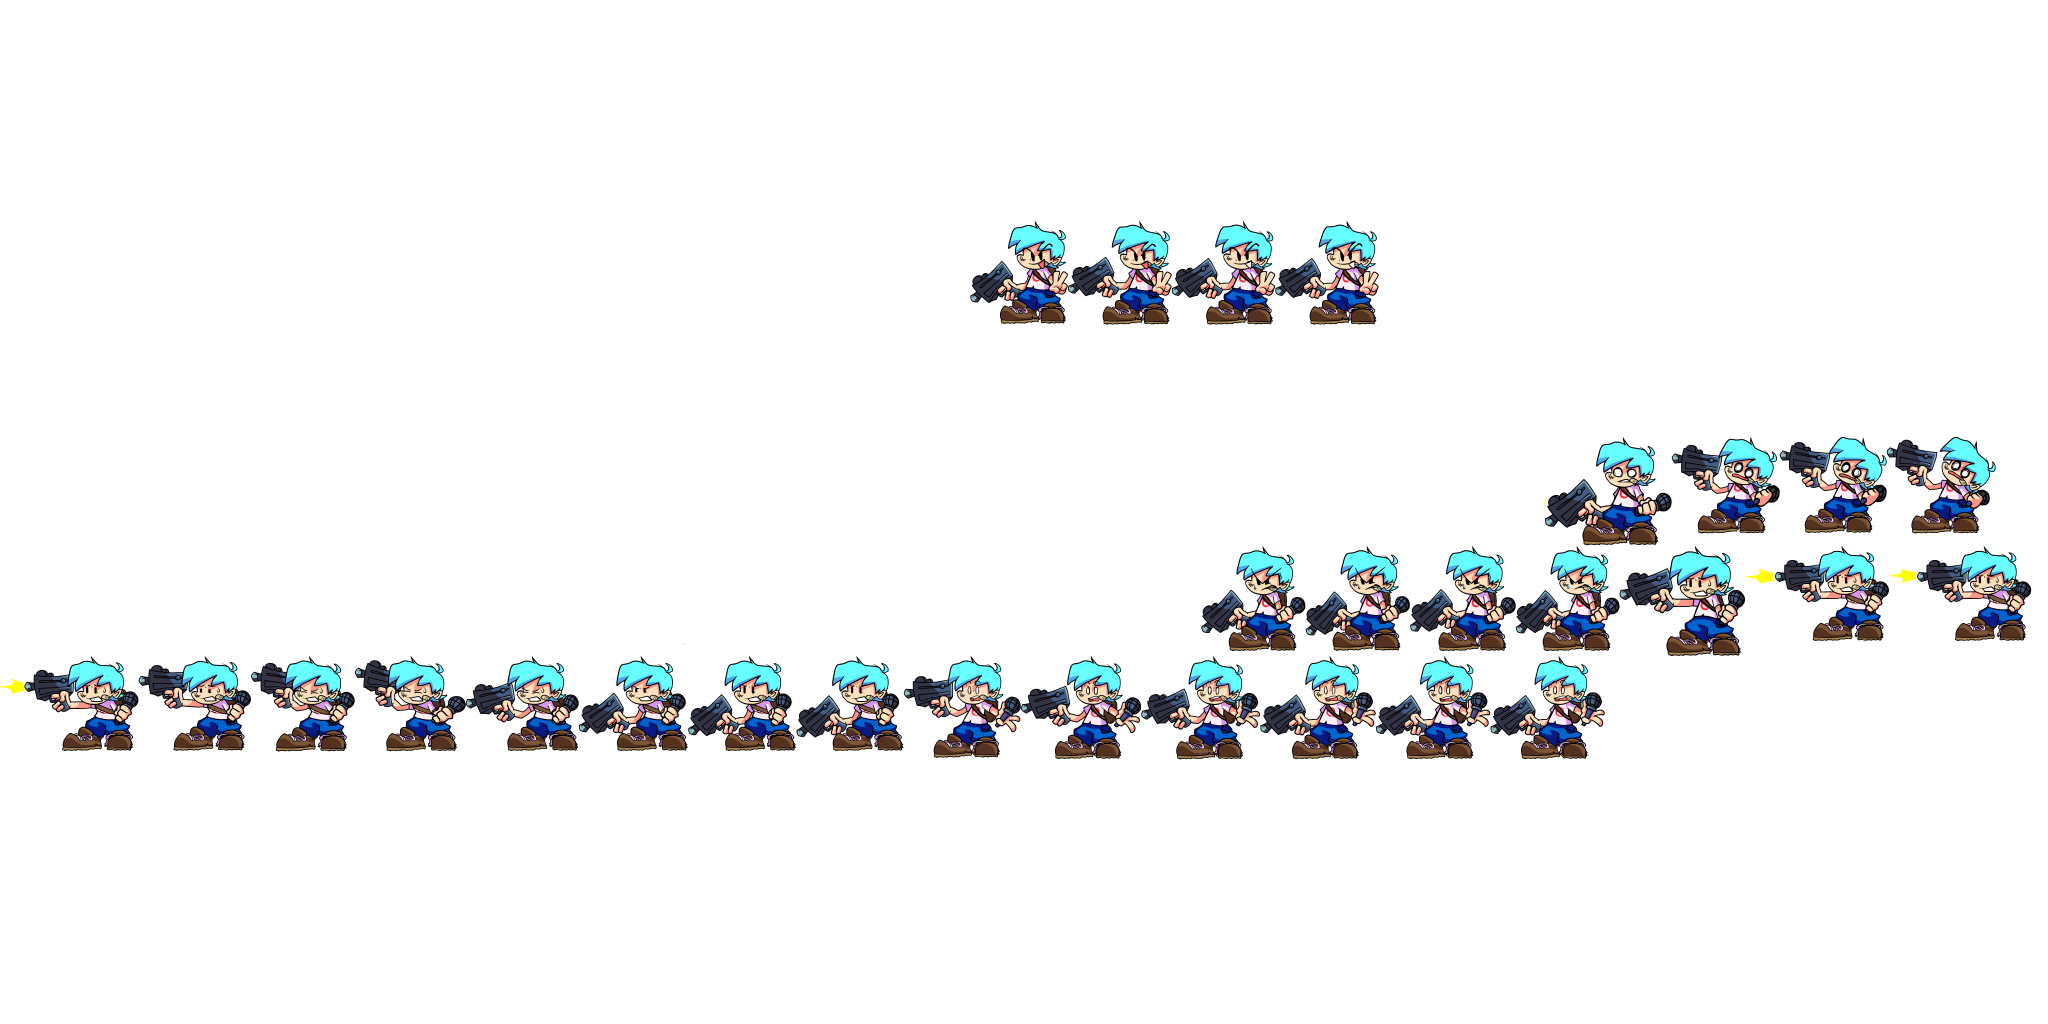
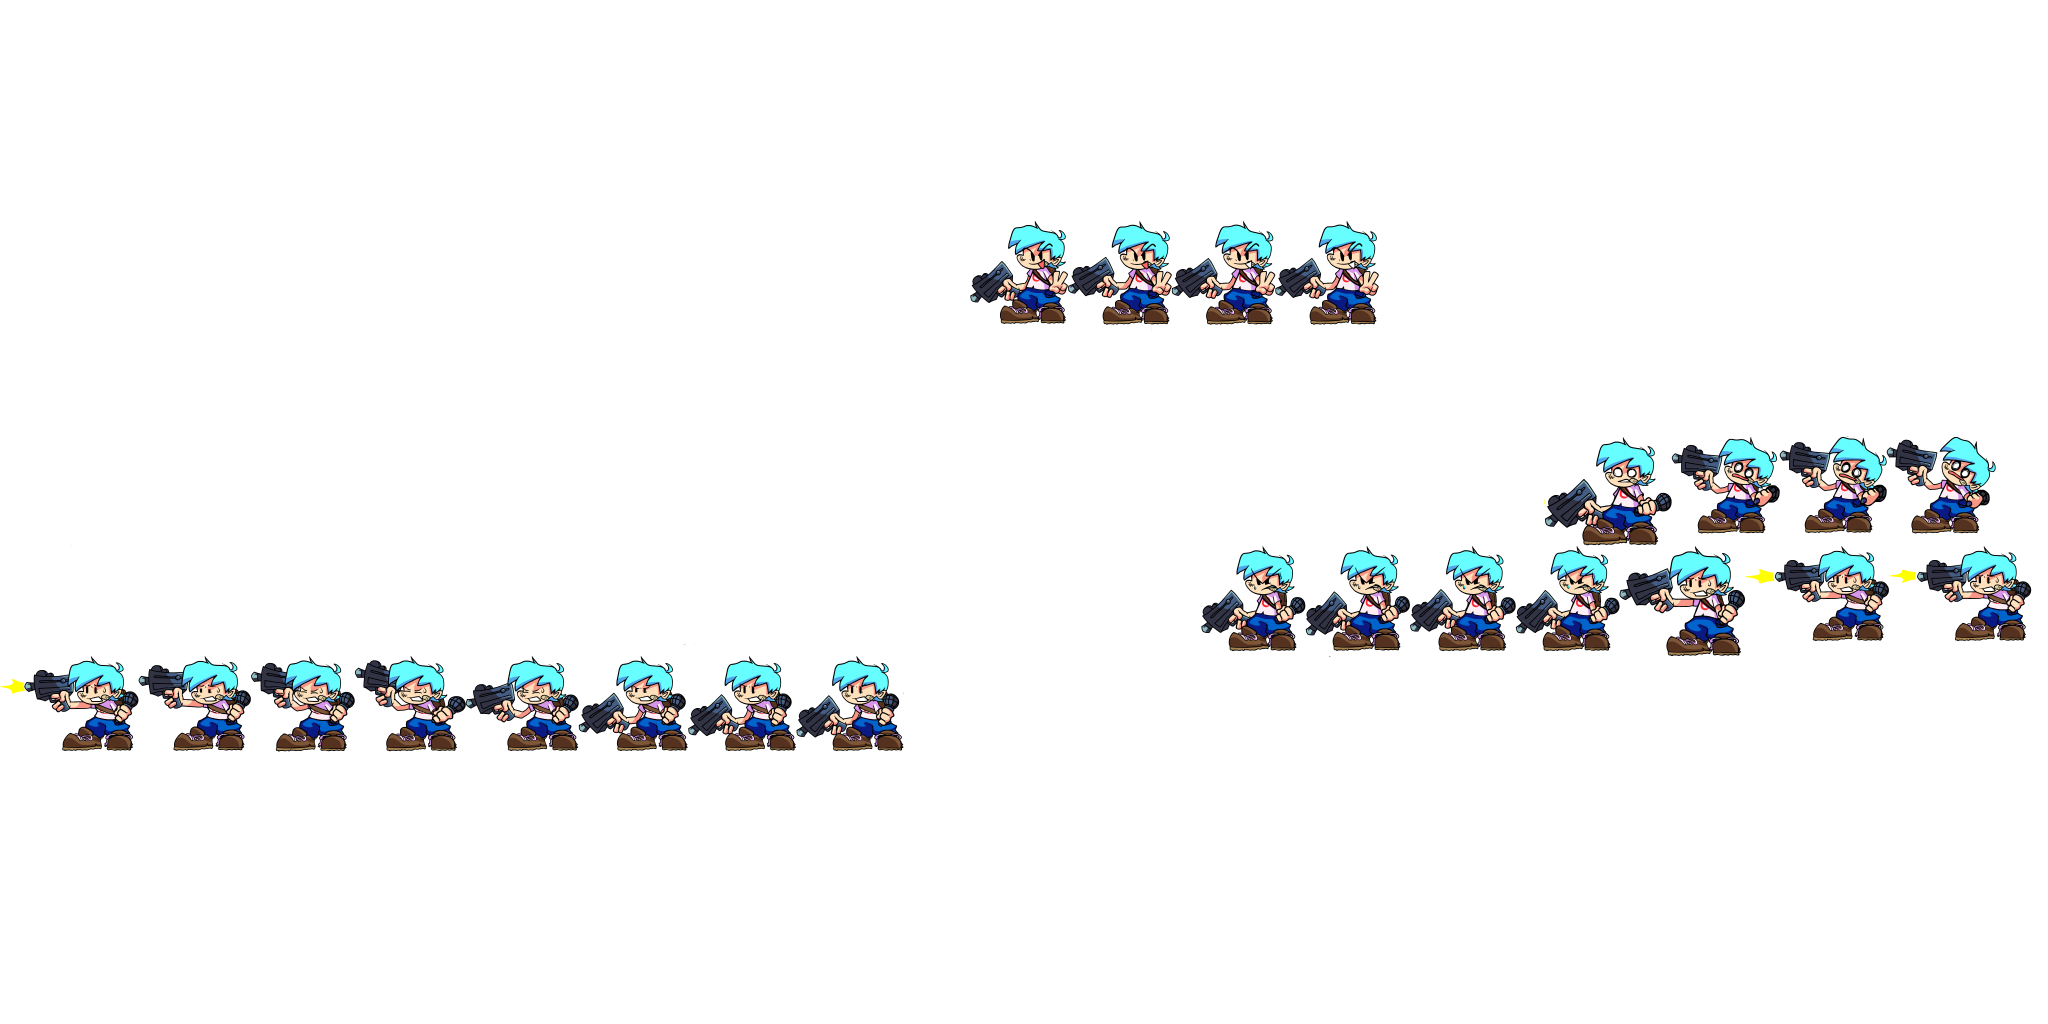
fix story mode and add a lot more stuff

Changed region(s): [[0.4375, 0.625, 0.7812, 0.75]]

diff --git a/src/character/bf.c b/src/character/bf.c
@@ -116,6 +116,11 @@ static const CharFrame char_bf_frame[] = {
 	{BF_ArcMain_Dead2, {119,   0, 123, 107}, {110 - 42,  106}}, //26 dead2 body twitch 1
 	{BF_ArcMain_Dead2, {  0, 108, 122, 108}, {112 - 42,  107}}, //27 dead2 balls twitch 0
 	{BF_ArcMain_Dead2, {122, 107, 122, 107}, {112 - 42,  106}}, //28 dead2 balls twitch 1
+
+	{BF_ArcMain_BF3, { 95,   0, 117, 101}, { 71,  100}}, //12 right 2
+	{BF_ArcMain_BF3, {  0, 102, 119, 102}, { 77,  102}}, //12 right 2
+	{BF_ArcMain_BF3, {119, 101, 114, 102}, { 72,  101}}, //12 right 2
+
 };
 
 static const Animation char_bf_anim[PlayerAnim_Max] = {
@@ -123,7 +128,7 @@ static const Animation char_bf_anim[PlayerAnim_Max] = {
 	{2, (const u8[]){ 5,  6, ASCR_BACK, 1}},             //CharAnim_Left
 	{0, (const u8[]){ASCR_CHGANI, CharAnim_Idle}},       //CharAnim_LeftAlt
 	{2, (const u8[]){ 7,  8, ASCR_BACK, 1}},             //CharAnim_Down
-	{0, (const u8[]){ASCR_CHGANI, CharAnim_Idle}},       //CharAnim_DownAlt
+	{2, (const u8[]){ 29, 30, 31, ASCR_BACK, 0}},       //CharAnim_DownAlt
 	{2, (const u8[]){ 9, 10, ASCR_BACK, 1}},             //CharAnim_Up
 	{0, (const u8[]){ASCR_CHGANI, CharAnim_Idle}},       //CharAnim_UpAlt
 	{2, (const u8[]){11, 12, ASCR_BACK, 1}},             //CharAnim_Right

diff --git a/src/stagedef_disc1.h b/src/stagedef_disc1.h
@@ -30,7 +30,7 @@
 		1, 2,
 		XA_Fresh, 2,
 		
-		StageId_1_3, STAGE_LOAD_FLAG
+		StageId_1_3, STAGE_LOAD_OPPONENT
 	},
 	{ //StageId_1_3 (my-friends)
 		//Characters
@@ -47,7 +47,7 @@
 		1, 3,
 		XA_Dadbattle, 0,
 		
-		StageId_1_3, 0
+		StageId_2_1, STAGE_LOAD_OPPONENT | STAGE_LOAD_OPPONENT2
 	},
 	{ //StageId_1_4 (NULL)
 		//Characters
@@ -82,7 +82,7 @@
 		2, 1,
 		XA_Spookeez, 0,
 		
-		StageId_2_2, STAGE_LOAD_FLAG
+		StageId_2_1, 0
 	},
 	{ //StageId_2_2 (overworked)
 		//Characters
@@ -99,7 +99,7 @@
 		2, 2,
 		XA_South, 2,
 		
-		StageId_2_3, STAGE_LOAD_FLAG | STAGE_LOAD_OPPONENT
+		StageId_2_2, 0
 	},
 	{ //StageId_2_3 (last-spooktober)
 		//Characters
@@ -116,7 +116,7 @@
 		2, 3,
 		XA_Monster, 0,
 		
-		StageId_2_3, 0
+		StageId_3_1, STAGE_LOAD_OPPONENT | STAGE_LOAD_STAGE
 	},
 	{ //StageId_3_1 (gunshot)
 		//Characters
@@ -133,7 +133,7 @@
 		3, 1,
 		XA_Pico, 0,
 		
-		StageId_3_2, STAGE_LOAD_FLAG
+		StageId_3_2, STAGE_LOAD_OPPONENT | STAGE_LOAD_STAGE
 	},
 	{ //StageId_3_2 (blue-balled)
 		//Characters
@@ -150,7 +150,7 @@
 		3, 2,
 		XA_Philly, 2,
 		
-		StageId_3_3, STAGE_LOAD_FLAG
+		StageId_3_2, 0
 	},
 	{ //StageId_3_3 (Corrupted-Hero)
 		//Characters

diff --git a/src/menu.c b/src/menu.c
@@ -665,9 +665,9 @@ void Menu_Tick(void)
 				const char *tracks[4];
 			} menu_options[] = {
 				{NULL, StageId_1_1, "HERE WE ARE IN THE FUTURE", {"SAVE THE DAY", "GLITCHED GEM", "MY FRIENDS", "THE CHANGE"}},
-				{mordecai, StageId_1_1, "GOING BACK TO WORK", {"OVERWORKED", NULL, NULL, NULL}},
-				{week3, StageId_2_1, "FUNKY CORRUPTION", {"LAST SPOOKTOBER", "GUNSHOT", "BLUE BALLED", NULL}},
-				{finnjake, StageId_3_1, "ITS ADVENTURE TIME", {"CORRUPTED HERO", "BROTHERLEY BOND", "GUMMY SUBSTANCE", "TOGETHER FOREVER"}},
+				{mordecai, StageId_2_2, "GOING BACK TO WORK", {"OVERWORKED", NULL, NULL, NULL}},
+				{week3, StageId_2_3, "FUNKY CORRUPTION", {"LAST SPOOKTOBER", "GUNSHOT", "BLUE BALLED", NULL}},
+				{finnjake, StageId_3_3, "ITS ADVENTURE TIME", {"CORRUPTED HERO", "BROTHERLEY BOND", "GUMMY SUBSTANCE", "TOGETHER FOREVER"}},
 			};
 			
 			//Initialize page

diff --git a/src/stage.c b/src/stage.c
@@ -24,7 +24,7 @@
 
 //Stage constants
 //#define STAGE_NOHUD //Disable the HUD
-#define STAGE_FREECAM //Freecam
+//#define STAGE_FREECAM //Freecam
 
 static int note_x[8] = {
 	//BF
